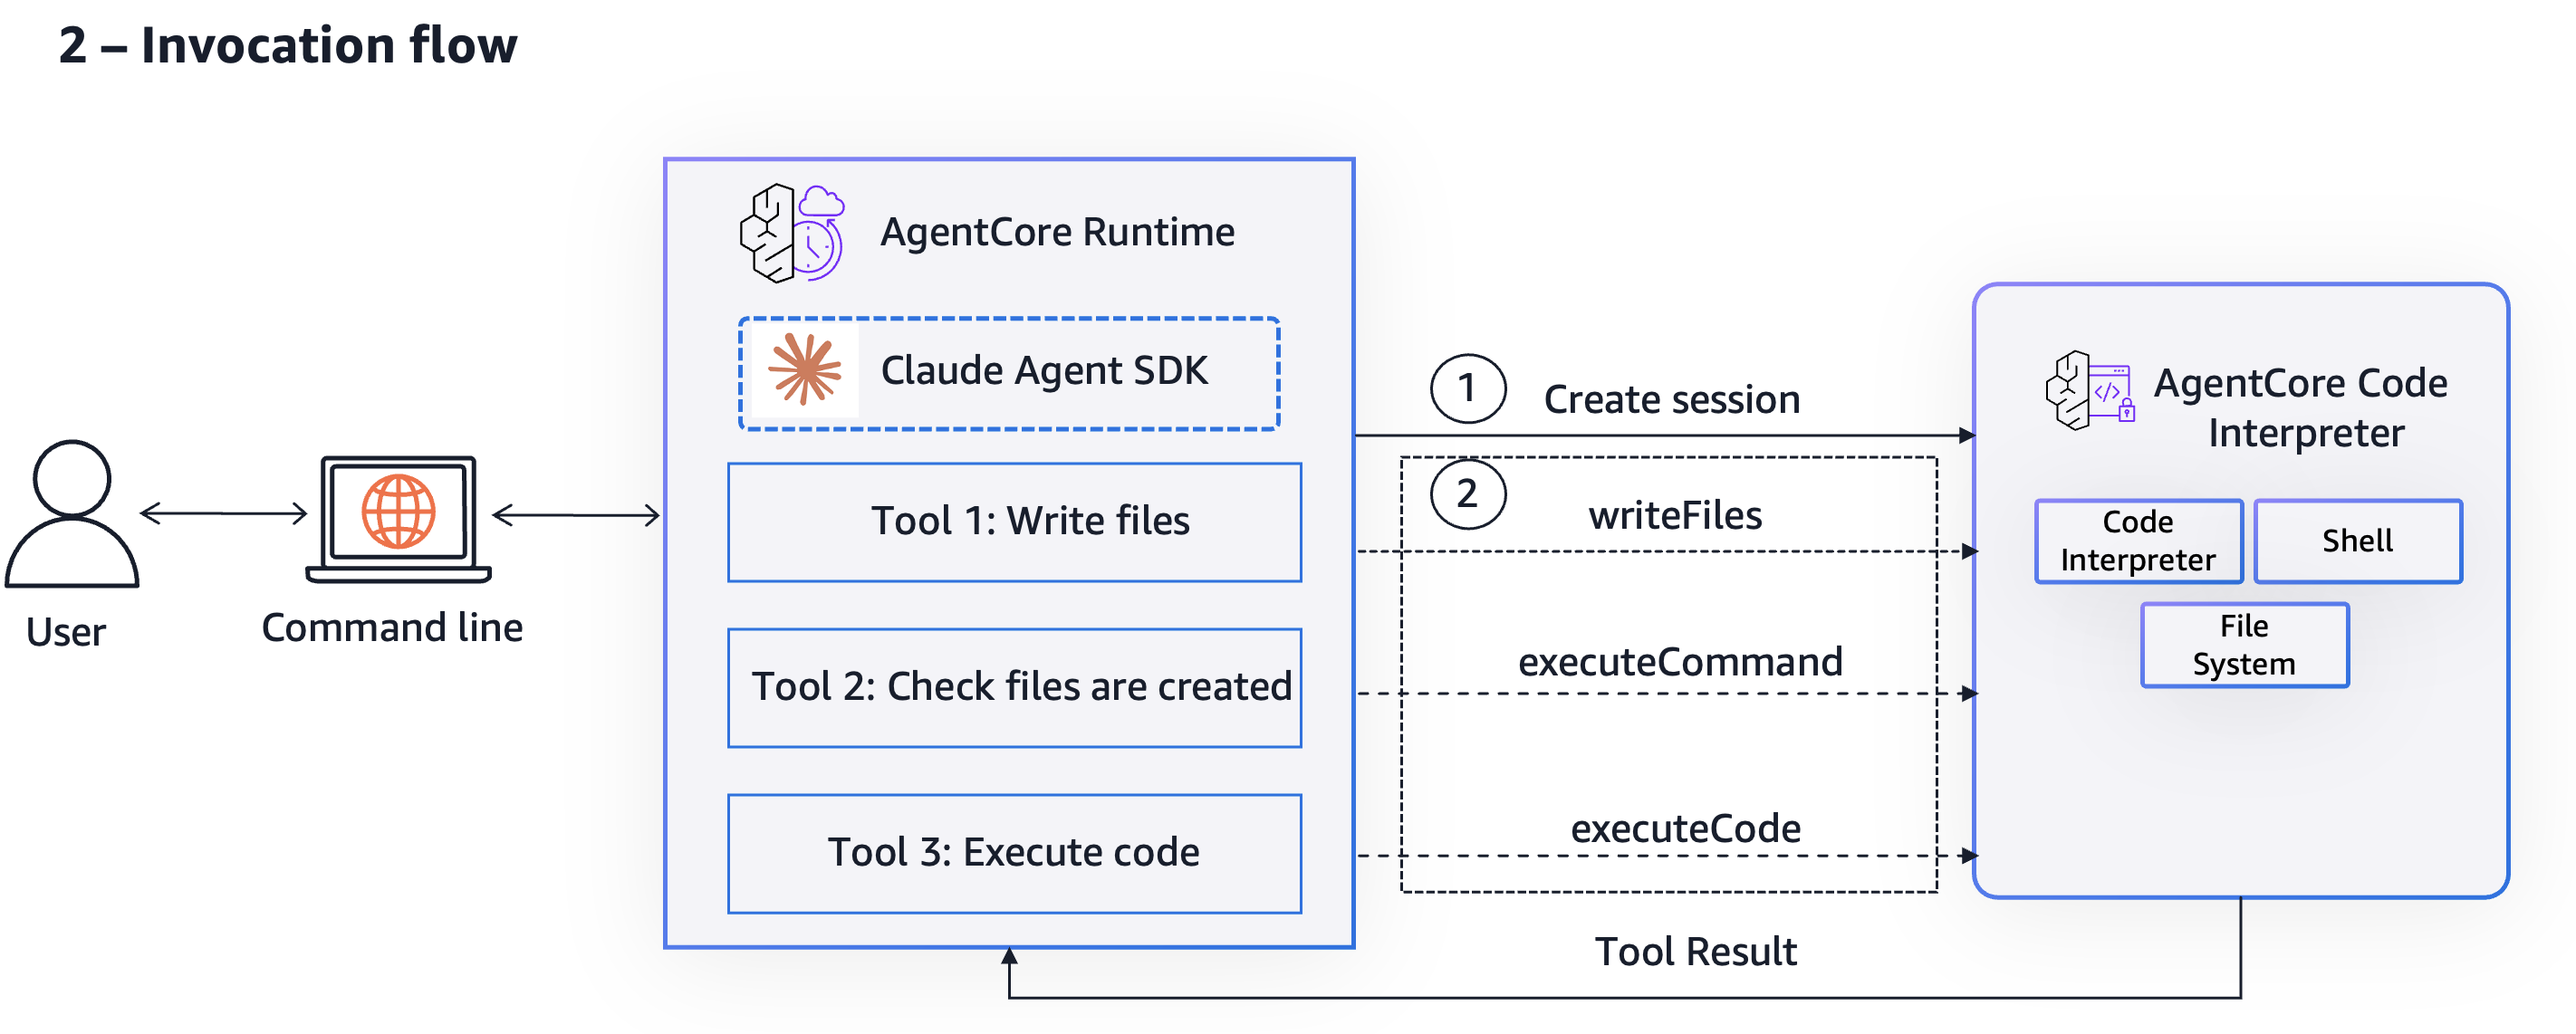
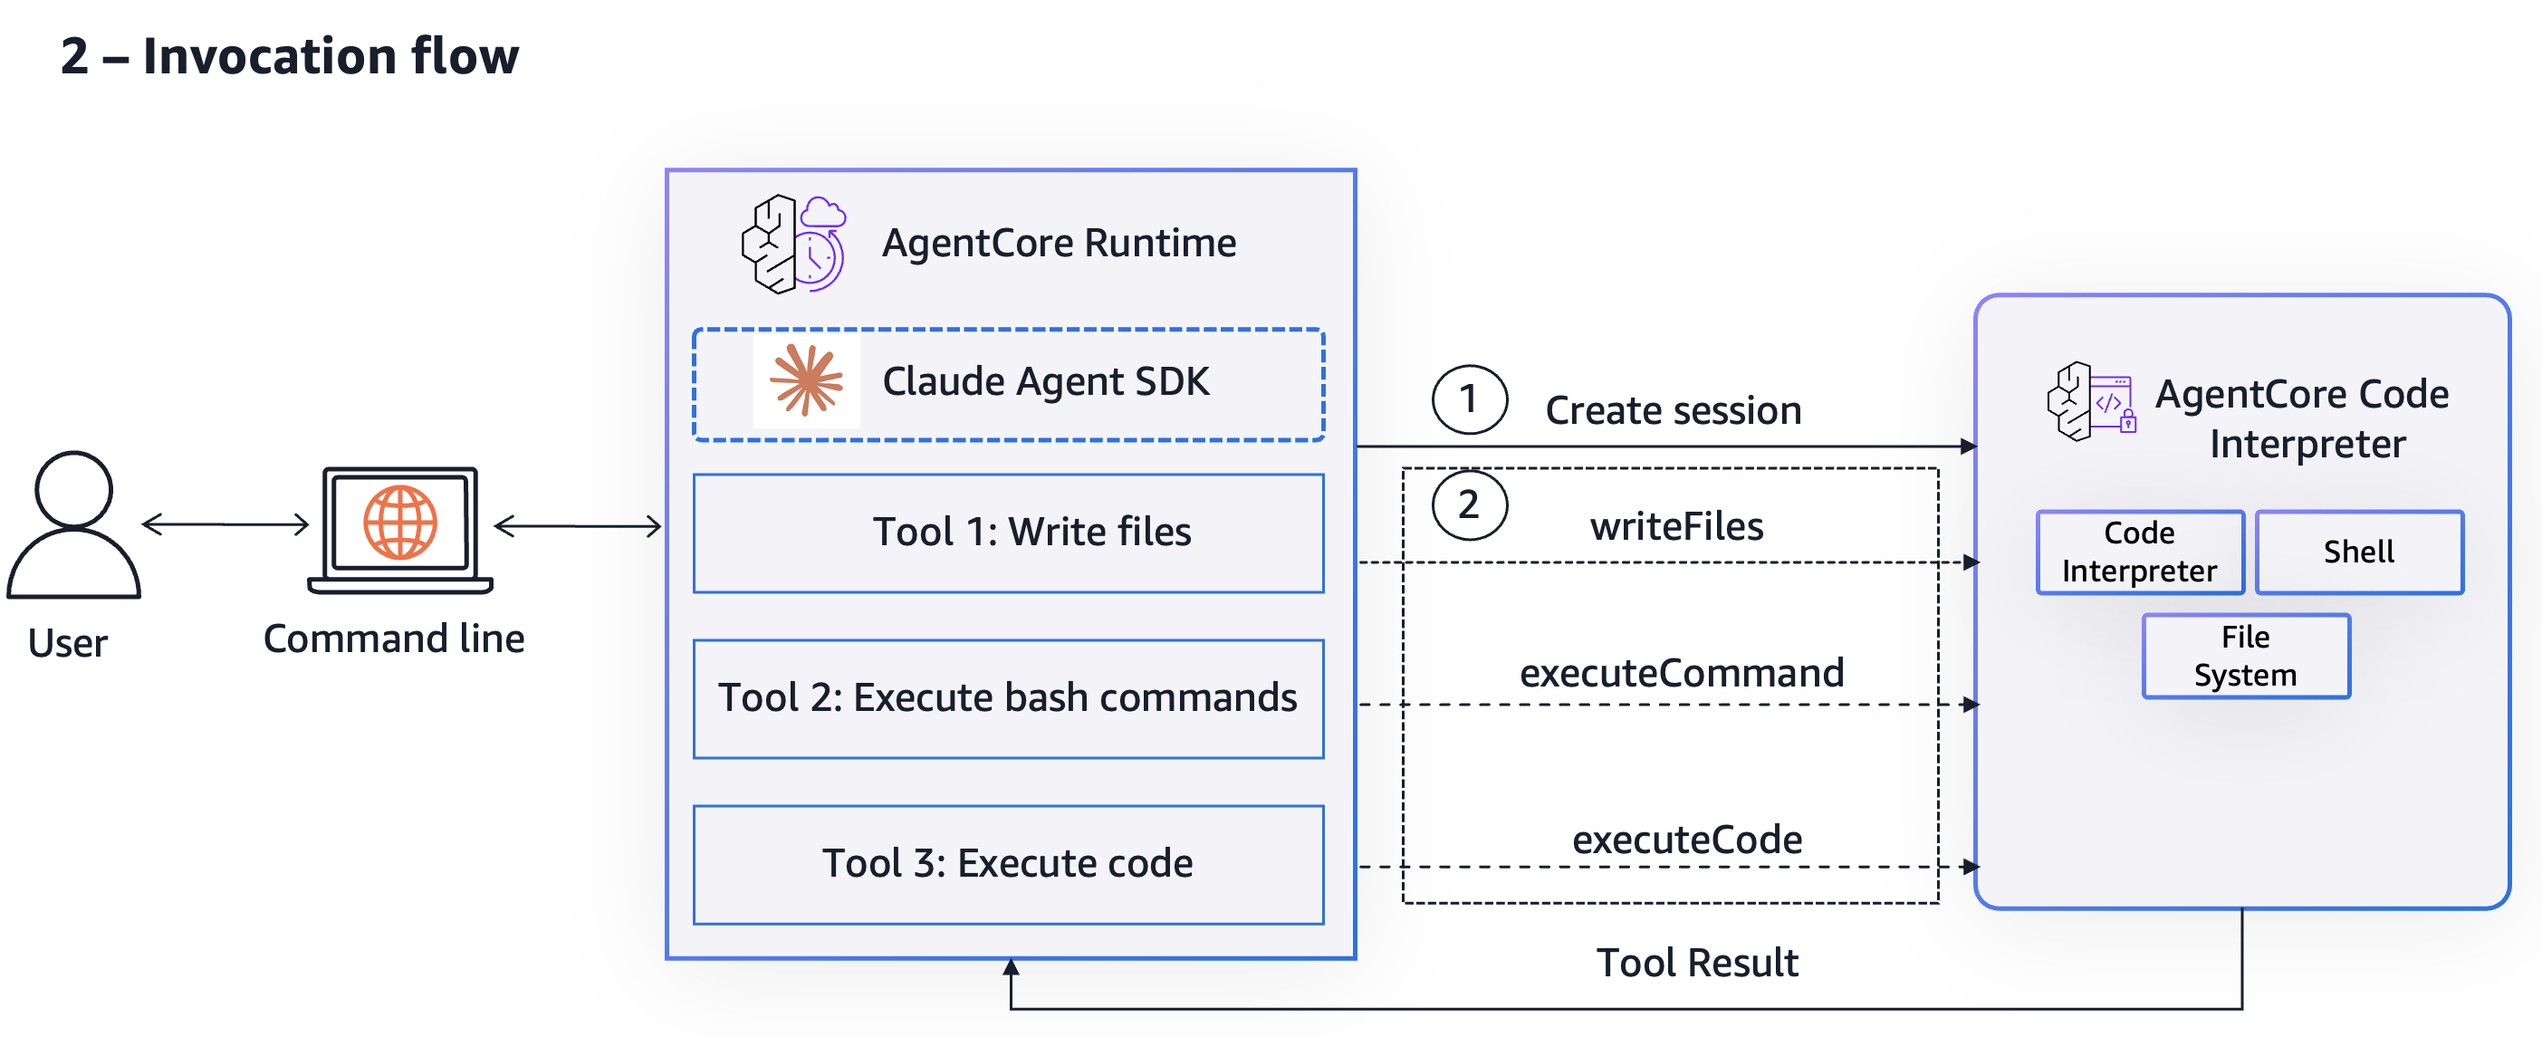
Changes to the flow based on feedback

Changed region(s): [[0.0, 0.1532, 0.9918, 0.9807], [0.0, 0.0306, 0.217, 0.0919], [0.3409, 0.4904, 0.4649, 0.521]]

diff --git a/03-integrations/agentic-frameworks/claude-agent/claude-with-code-interpreter/test_scripts/invoke_agent.py b/03-integrations/agentic-frameworks/claude-agent/claude-with-code-interpreter/test_scripts/invoke_agent.py
@@ -7,7 +7,7 @@ from botocore.exceptions import ClientError, ReadTimeoutError
 logging.basicConfig(level=logging.INFO)
 logger = logging.getLogger(__name__)
 
-agent_arn = "<agent-arn>"
+agent_arn = "arn:aws:bedrock-agentcore:us-west-2:901293660432:runtime/claude_ci_agent-xsW5gEGhrq"
 
 # Initialize the Amazon Bedrock AgentCore client
 agent_core_client = boto3.client("bedrock-agentcore")
@@ -33,7 +33,6 @@ def _invoke(prompt: str, session_id: str):
 
         # Get the StreamingBody
         streaming_body = response.get("response")
-        logger.info("StreamingBody type: %s", type(streaming_body))
 
         # Variables to accumulate the response
         content = []
@@ -60,32 +59,25 @@ def _invoke(prompt: str, session_id: str):
 
                     # Only try to parse if we have content
                     if chunk_str:
-                        try:
-                            # Try to parse each chunk as JSON
-                            chunk_data = json.loads(chunk_str)
+                        # Try to parse each chunk as JSON
+                        chunk_data = json.loads(chunk_str)
 
-                            # Handle different chunk types
-                            if chunk_data.get("type") == "text":
-                                logger.info("\n TEXT : %s", chunk_data.get("text"))
-                            elif chunk_data.get("type") == "tool_use":
-                                logger.info(
-                                    "\n TOOL USED : %s", chunk_data.get("tool_name")
-                                )
-                            elif chunk_data.get("type") == "final":
-                                logger.info(
-                                    "\n FINAL RESPONSE : %s", chunk_data.get("response")
-                                )
-                                final_response = chunk_data.get("response", "")
-                                final_session_id = chunk_data.get("session_id", "")
-
-                            # Combine all chunks to show in the final response.
-                            content.append(chunk_str)
-
-                        except json.JSONDecodeError:
-                            # If not valid JSON, just accumulate
-                            content.append(chunk_str)
+                        # Handle different chunk types
+                        if chunk_data.get("type") == "text":
+                            logger.info("\n TEXT : %s", chunk_data.get("text"))
+                        elif chunk_data.get("type") == "tool_use":
+                            logger.info(
+                                "\n TOOL USED : %s", chunk_data.get("tool_name")
+                            )
+                            logger.info(
+                                "\n TOOL INPUT : %s", chunk_data.get("tool_input")
+                            )
+                        elif chunk_data.get("type") == "final":
+                            final_response = chunk_data.get("response", "")
+                            final_session_id = chunk_data.get("session_id", "")
         except ReadTimeoutError as e:
             logger.error("Request failed: %s", str(e))
+
         logger.info("*" * 80)
         logger.info("Streaming complete")
         logger.info("*" * 80)
@@ -115,19 +107,20 @@ def _cleanup(session_id: str):
 def main():
     # List of prompts to test
     prompts = [
-        """
-            Write the files in the samples folder into a code interpreter session. 
-            Check if they are created. 
-            Run data analysis on the data file using the python script.
-"""
+        # "Calculate the sum of numbers from 1 to 100",
+        # "Write a Python function to check if a number is prime",
+        "Create a sample data set of a retail store orders. Create a simple data analysis on a sample dataset. Save the files.",
     ]
 
     session_id = ""
     for prompt in prompts:
-        print(f"\nPrompt: {prompt}")
+        logger.info("\nPrompt: %s", prompt)
         result = _invoke(prompt, session_id)
-        print(f"\n Final Response: {result['response']}")
-        print(f"\n Session ID: {result['session_id']}\n")
+        # logger.info("*" * 80)
+        # logger.info("FINAL RESPONSE")
+        # logger.info("*" * 80)
+        # logger.info("\n RESPONSE: %s", result['response'])
+        logger.info("\n SESSION ID: %s", result["session_id"])
         session_id = result["session_id"]
 
     if session_id:

diff --git a/03-integrations/agentic-frameworks/claude-agent/claude-with-code-interpreter/agent.py b/03-integrations/agentic-frameworks/claude-agent/claude-with-code-interpreter/agent.py
@@ -42,19 +42,19 @@ async def main(payload):
             "mcp__codeint__write_files",
             "mcp__codeint__read_files",
         ],
-        system_prompt=f"""You are an AI assistant with access to code execution tools.
-
+        system_prompt=f"""You are an AI assistant that helps users with tasks associated with code generation and execution. 
+  
   CRITICAL RULES:
-  1. You MUST use mcp__codeint__execute_code for ALL Python/code execution tasks instead of running commands.
-  2. You MUST use mcp__codeint__execute_command for ALL bash/shell commands
-  3. You MUST use mcp__codeint__write_files for ALL write file commands
-  4. If asked to run code, commands or write files, use the tools without asking for permission
+  1. You MUST use mcp__codeint__execute_code for ALL Python code execution tasks. If a library is not found, rewrite code to use an alternate library. Do not attempt to install missing libraries.
+  2. You can use mcp__codeint__execute_command to execute bash commands within code interpreter session.
+  3. You can use mcp__codeint_write_files to write/save files within code interpreter session.
+  4. Use the tools without asking for permission
   5. Use the {code_int_session_id} when invoking code interpreter tools to continue the session. Do not make it as 'default. Pass it even if its empty.
 
-  Available tools:
-  - mcp__codeint__execute_code: Execute Python/code snippets
+  Available tools to interact with code interpreter session:
+  - mcp__codeint__execute_code: Execute Python/code snippets. 
   - mcp__codeint__execute_command: Execute bash/shell commands
-  - mcp__codeint_write_files command: Execute write file operations. Make a list of path - name of the file, text - contents of the file for all the files and pass it to the tool.
+  - mcp__codeint_write_files command: Execute write/save file operations. Make a list of path - name of the file, text - contents of the file for all the files and pass it to the tool.
   - mcp__codeint_read_files command: Execute read file operations. Make a list of path - name of the file
 
   Your response should:
@@ -79,11 +79,13 @@ async def main(payload):
                         yield {
                             "type": "tool_use",
                             "tool_name": block.name,
+                            "tool_input": block.input,
                             "session_id": code_int_session_id,
                         }
                     elif isinstance(block, TextBlock):
                         logger.info("*" * 80 + "\n")
                         logger.info("Agent response: %s", block.text)
+                        logger.info("*" * 80 + "\n")
                         agent_responses.append(block.text)
                         # Yield text response as a streaming chunk
                         yield {
@@ -97,6 +99,9 @@ async def main(payload):
                         if block.content and len(block.content) > 0:
                             if isinstance(block.content[0], dict):
                                 text_content = block.content[0].get("text", "")
+                                logger.info("*" * 80 + "\n")
+                                logger.info("Tool Result: %s", text_content)
+                                logger.info("*" * 80 + "\n")
                                 result_data = json.loads(text_content)
                                 extracted_session_id = result_data.get(
                                     "code_int_session_id", ""

diff --git a/03-integrations/agentic-frameworks/claude-agent/claude-with-code-interpreter/code_int_mcp/client.py b/03-integrations/agentic-frameworks/claude-agent/claude-with-code-interpreter/code_int_mcp/client.py
@@ -45,11 +45,9 @@ class CodeInterpreterClient:
                 name=operation,
                 arguments=args if args else {},
             )
-            print(f"******Code Int response {response}")
             output = ""
             for event in response["stream"]:
                 output = json.dumps(event["result"], indent=2)
-                print(f"******Code Int output {output}")
 
             execution_time = time.time() - start_time
 

diff --git a/03-integrations/agentic-frameworks/claude-agent/claude-with-code-interpreter/README.md b/03-integrations/agentic-frameworks/claude-agent/claude-with-code-interpreter/README.md
@@ -1,6 +1,6 @@
 # Code execution in Code Interpreter using Claude Agent
 
-This project demonstrates a [Claude agent](https://docs.claude.com/en/api/agent-sdk/overview) deployed on [AWS Bedrock AgentCore](https://docs.aws.amazon.com/bedrock-agentcore/latest/devguide/) that creates [Code Interpreter](https://docs.aws.amazon.com/bedrock-agentcore/latest/devguide/code-interpreter-tool.html) sessions to securely execute code within the Code Interpreter isolated sandbox environments. The agent in this example performs automated data analysis by orchestrating file transfers, code execution, and result retrieval within Code Interpreter sessions.
+This project demonstrates a [Claude agent](https://docs.claude.com/en/api/agent-sdk/overview) deployed on [AWS Bedrock AgentCore](https://docs.aws.amazon.com/bedrock-agentcore/latest/devguide/) that creates [Code Interpreter](https://docs.aws.amazon.com/bedrock-agentcore/latest/devguide/code-interpreter-tool.html) sessions to securely execute code. 
 
 We demonstrate this by building a Claude Agent that interprets user prompt, creates Code Interpreter session, invokes bash and code execution operations within the Code Interpreter environment, and returns a response.
 
@@ -12,8 +12,7 @@ We demonstrate this by building a Claude Agent that interprets user prompt, crea
 The project includes:
 - An agent that uses Claude to orchestrate code execution
 - An MCP server that wraps the Code Interpreter tools
-- A client to invoke the Code Interpreter APIs
-- Sample data and analysis code to demonstrate the workflow
+- A client to invoke the Code Interpreter APIs using boto3 SDK
 - Docker containerization for AgentCore deployment
 
 ## Prerequisites
@@ -72,12 +71,22 @@ agentcore launch
 
 ### 3. Test your agent
 
-Use toolkit command to test agent. Here is a sample prompt to demonstrate how Claude invokes Code Interpreter session to write files and do data analysis on them.
+Use toolkit command to test agent. 
 ```bash
-agentcore invoke '{"prompt":"Write the files in the samples folder into a code interpreter session. Check if they are created. Run data analysis on the data file using the python script."'
+agentcore invoke '{"prompt":"Create a sample data set of a retail store orders. Create a simple data analysis on a sample dataset. Save the files."}'
 ```
 
-**OR** you can use the script provided in the test_scripts directory
+For the above prompt, the agent will 
+- interpret the prompt
+- write python code to create sample data set
+- start a code interpreter session and execute the code
+- write python code to perform data analysis
+- use the code interpreter session to execute the code for data analysis
+- use the code interpreter session to save the files 
+- send summary back to the user
+
+
+**OR** you can use the script provided in the test_scripts directory. It has a few sample prompts.
 ```bash
 uv run test_scripts/invoke_agent.py
 ```
@@ -87,17 +96,11 @@ uv run test_scripts/invoke_agent.py
 
 ## What It Does
 
-The `test_scripts/invoke_agent.py` client includes a sample prompt that demonstrates the full workflow:
-
-1. **Write files** to the Code Interpreter session (from the `samples` folder)
-2. **List files** to verify they were created
-3. **Execute data analysis** on the CSV file using the code in `stats.py`
-
-This showcases how Claude can:
-- Manage an isolated Code Interpreter session
+You can use the agent to:
+- Maintain an isolated Code Interpreter session
 - Transfer files to the session
 - Execute Python code within the session
-- Perform data analysis tasks
+- Execute bash commans
 
 ## Project Structure
 
@@ -108,9 +111,6 @@ This showcases how Claude can:
 │   ├── models.py                # Pydantic data models
 │   ├── server.py                # MCP server with tools
 │   └── __init__.py
-├── samples/
-│   ├── stats.py                 # Sample analysis code
-│   └── data.csv                 # Sample data file
 ├── test_scripts/
 │   ├── invoke_agent.py          # Client to invoke deployed agent
 │   └── cleanup.py               # Cleanup script
@@ -121,22 +121,20 @@ This showcases how Claude can:
 ```
 
 ### Understanding the agent code
-Claude Agent SDK supports two types of interactions - query() and ClaudeSDKClient. A quick comparison is provided [here](https://docs.claude.com/en/api/agent-sdk/python#quick-comparison). In this example, we specifically use the ClaudeSDKClient since it supports use of custom tools.
+Claude Agent SDK supports two types of interactions - query() and ClaudeSDKClient. A quick comparison is provided [here](https://docs.claude.com/en/api/agent-sdk/python#quick-comparison). In this example, we specifically use the ClaudeSDKClient since it supports the use of custom tools.
 
-The agent's system prompt in our example is extremely specific to use Code Interpreter tool for executing bash, file read/write operations and code. This is done to override the default behavior of Claude Agent that uses its own tools for bash, file read/write and execute code.
+The agent's system prompt in our example is extremely specific to use Code Interpreter tool for executing bash, file read/write operations and code. This is done to override the default behavior of Claude Agent that uses its own tools for these operations. The agent maintains the code interpreter session id during the complete agent session.
 
-The agent re-uses the code interpreter session id for the multi turn conversation so that the context is maintained between the turns.
+The Code Interprter tool operations (`code_int_mcp/server.py`) are created as custom tools for Claude Agent to use. [Custom tools](https://docs.claude.com/en/api/agent-sdk/custom-tools) allow for plugging in our own tools to Claude Agent through in process MCP server. The `code_int_mcp/client.py` is a simple class that the server uses to invoke Code Interpreter operations via boto3 SDK. The tools should have a [specific naming format](https://docs.claude.com/en/api/agent-sdk/custom-tools#tool-name-format) for Claude agent to be able to use them. 
 
-The Code Interprter tool operations (`code_int_mcp/server.py`) are created as custom tools for Claude Agent to use. [Custom tools](https://docs.claude.com/en/api/agent-sdk/custom-tools) allow for plugging in our own tools to Claude Agent through in process MCP server. The `code_int_mcp/client.py` is a simple class that the server uses to invoke Code Interpreter operations via boto3 SDK. The tools have to have a [specific naming format](https://docs.claude.com/en/api/agent-sdk/custom-tools#tool-name-format) for Claude agent to be able to use them. 
-
-Code Interpreter's session runs in a dedicated microVM with isolated CPU, memory and filesystem resources. It is ideal that a client re-uses the session for a user request. With that in mind, the agent takes in a payload of `prompt` and `code_int_session_id` if passed and reuses that session. Ideally we would pass sesison ids in headers in real world applications. But to demonstrate the session functionality we pass it as part of payload. The agent uses the session id to invoke the the Code interpreter tools within the same session. 
+Code Interpreter's session runs in a dedicated microVM with isolated CPU, memory and filesystem resources. It is ideal that a client re-uses the session for a user request. With that in mind, the agent takes in a payload of `prompt` and `code_int_session_id` and reuses that session. Ideally we would pass sesison ids in headers in real world applications. But to demonstrate the session functionality we pass it as part of payload. 
 
 In order to demonstrate how the agent works, there is extensive logging within the code. Only use them while testing. 
 
-Claude code by default has a model configured, but this can be changed via model property in ClaudeAgentOptions. Mode details [here](https://code.claude.com/docs/en/amazon-bedrock)
+Claude code by default has a model configured, but this can be changed via model property in ClaudeAgentOptions. More details [here](https://code.claude.com/docs/en/amazon-bedrock)
 
 ### Understanding the test script
-`test_scripts\invoke_agent.py` uses boto3 sdk to invoke agent deployed on AgentCore Runtime agent. As the agent sends response, the script streams it on the terminal. The actions, tools invoked and the final response. 
+`test_scripts\invoke_agent.py` uses boto3 sdk to invoke agent deployed on AgentCore Runtime agent. As the agent sends response, the script streams it to the terminal, this inclues actions, tools invoked and the final response. 
 
 ### Cleanup
 
